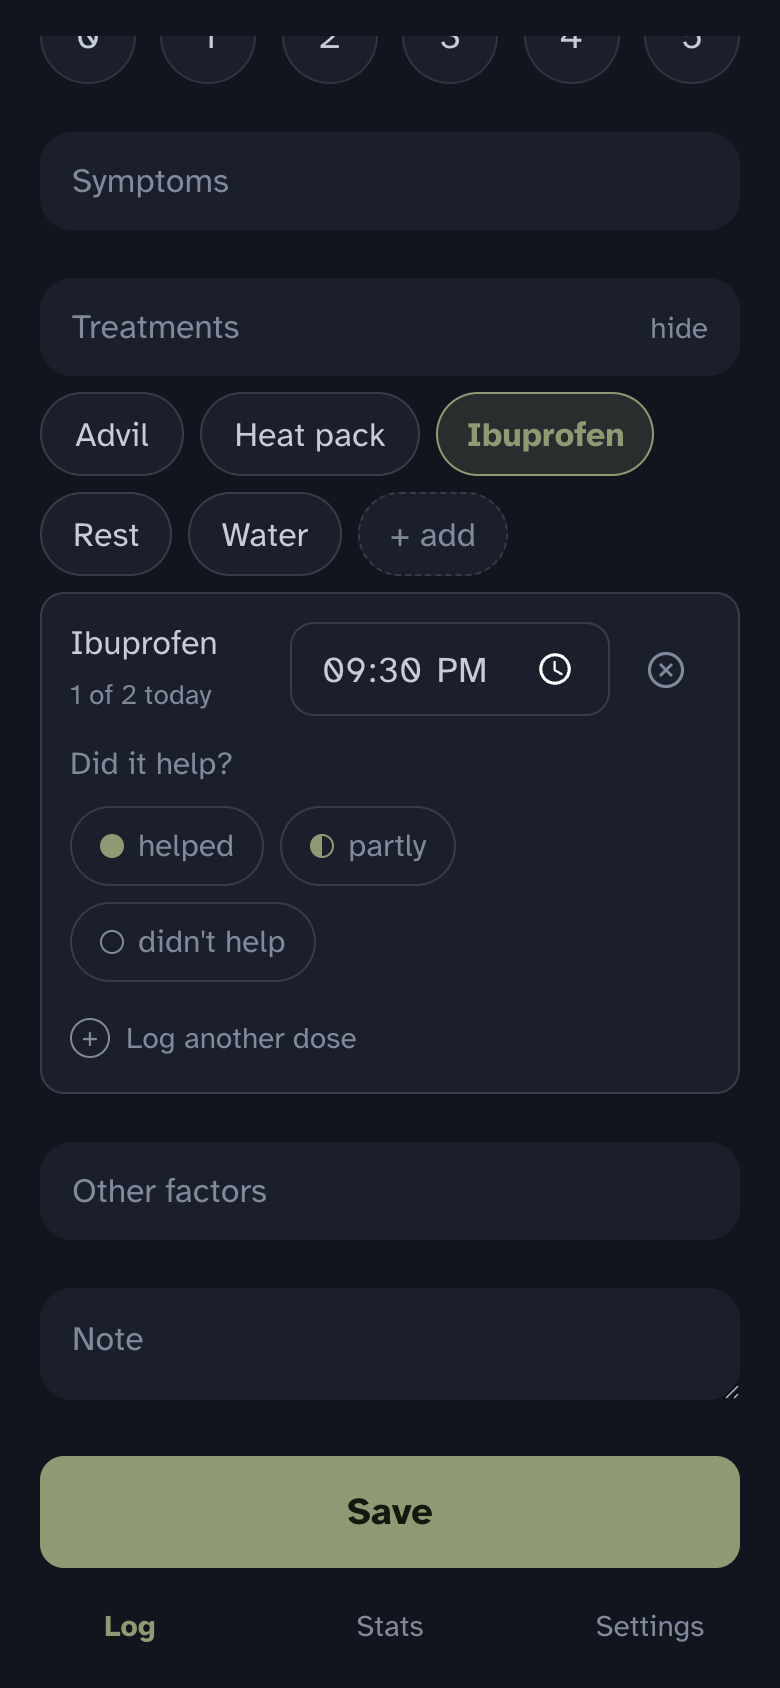
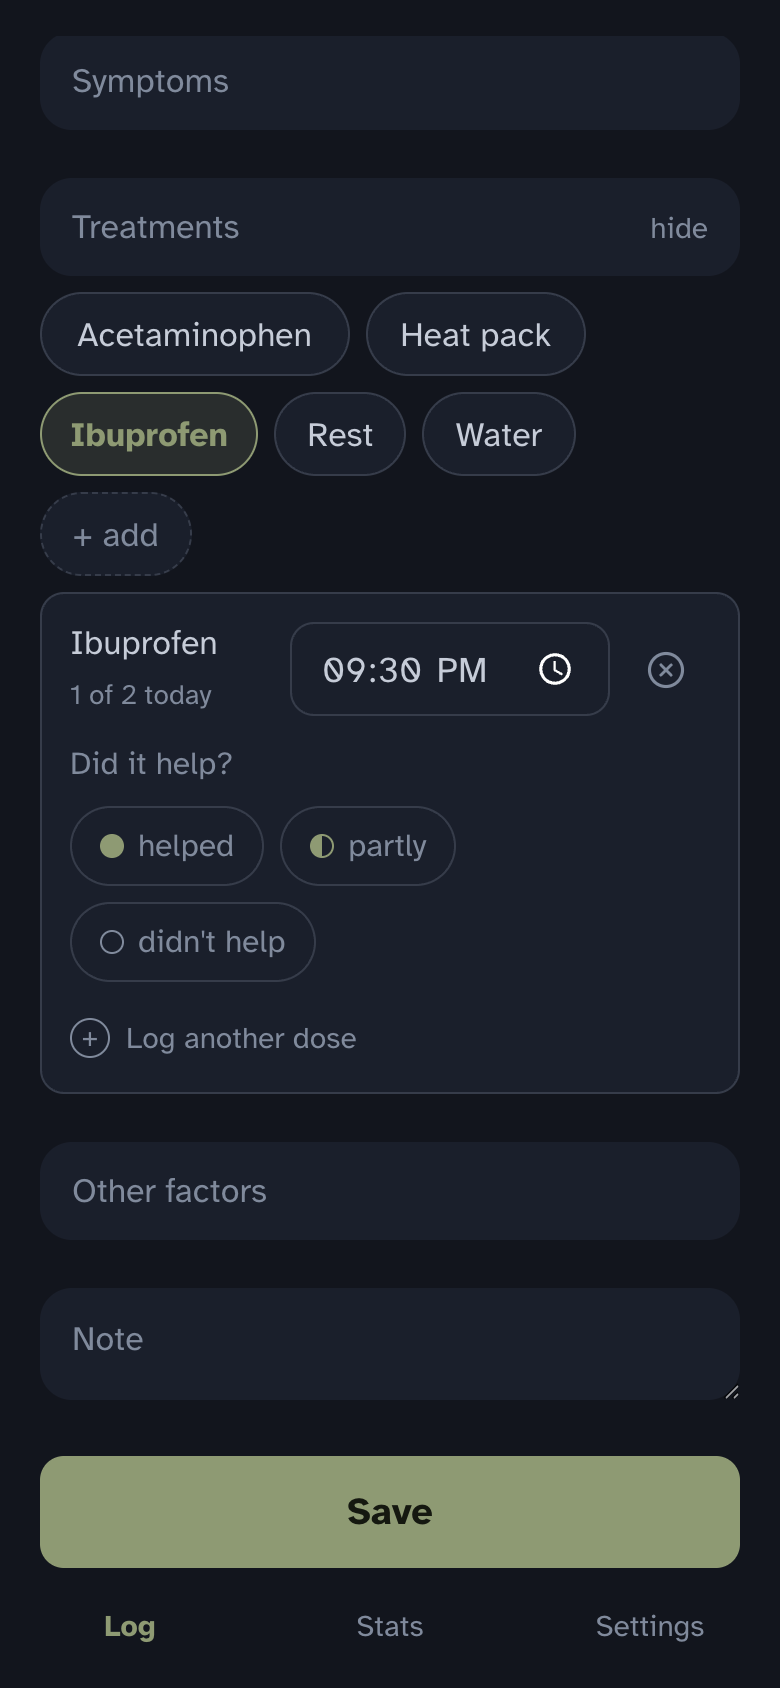
Sample data logs Acetaminophen, not Advil, alongside Ibuprofen (#39)
The demo and the screenshots had a sample day with Ibuprofen and Advil
logged as two treatments, which are the same drug. Advil is now
Acetaminophen everywhere in the sample story, a different medication, so
the day reads as one thing tried after another. The three product page
screenshots that showed it, the log, the treatment picker, and the
report, are regenerated from the same story so they match the demo.
Nothing in the app itself changes.

🤖 Built with Claude Code

diff --git a/src/demo.ts b/src/demo.ts
@@ -21,7 +21,7 @@ const V = (label: string, type: VocabItem['type'], extra: Partial<VocabItem> = {
 
 const VOCAB: VocabItem[] = [
   V('Ibuprofen', 'treatment', { medication: true, limit: 10, dailyLimit: 2 }),
-  V('Advil', 'treatment', { medication: true }),
+  V('Acetaminophen', 'treatment', { medication: true }),
   V('Water', 'treatment'),
   V('Rest', 'treatment'),
   V('Heat pack', 'treatment'),
@@ -108,7 +108,7 @@ export function demoSnapshot(today: Date = new Date()): DemoSnapshot {
     entry('demo-t4', ymd(y, m, 12), 4, { time: '06:30', factors: ['Poor sleep', 'Weather'], tx: [attempt('Ibuprofen', '06:45', 'partly'), attempt('Ibuprofen', '10:00', 'yes'), attempt('Ibuprofen', '11:30', 'yes')], notes: 'Woke with it, eased by noon.' }),
     entry('demo-t5', ymd(y, m, 15), null, { time: '12:00', symptoms: ['Dizziness'] }),
     entry('demo-t6', ymd(y, m, 19), 1, { time: '18:00', tx: [attempt('Rest', '18:30', null)] }),
-    entry('demo-t7', ymd(y, m, 22), 5, { time: '05:00', factors: ['Poor sleep'], tx: [attempt('Ibuprofen', '05:15', 'no'), attempt('Advil', '09:00', null)] }),
+    entry('demo-t7', ymd(y, m, 22), 5, { time: '05:00', factors: ['Poor sleep'], tx: [attempt('Ibuprofen', '05:15', 'no'), attempt('Acetaminophen', '09:00', null)] }),
     entry('demo-t8', ymd(y, m, 26), 2, { time: '09:00', symptoms: ['Fatigue'], tx: [attempt('Heat pack', '09:20', 'yes')] }),
   ].filter((e) => Number(e.date.slice(-2)) <= d);
 
@@ -120,8 +120,8 @@ export function demoSnapshot(today: Date = new Date()): DemoSnapshot {
   ];
   const lastMonth = lastMonthSpec.map(([day, rating, helped], i) => {
     const extra: Attempt[] = [];
-    if (day === 4) extra.push(attempt('Advil', '15:00', 'yes'));
-    if (day === 15) extra.push(attempt('Advil', '20:00', 'no'));
+    if (day === 4) extra.push(attempt('Acetaminophen', '15:00', 'yes'));
+    if (day === 15) extra.push(attempt('Acetaminophen', '20:00', 'no'));
     if (day === 8) extra.push(attempt('Rest', '11:00', null));
     return entry(`demo-l${i + 1}`, ymd(ly, lm, day), rating, {
       time: ['06:30', '08:00', '09:30', '07:15'][i % 4],
